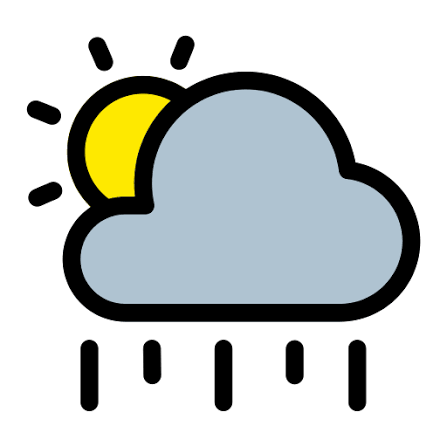
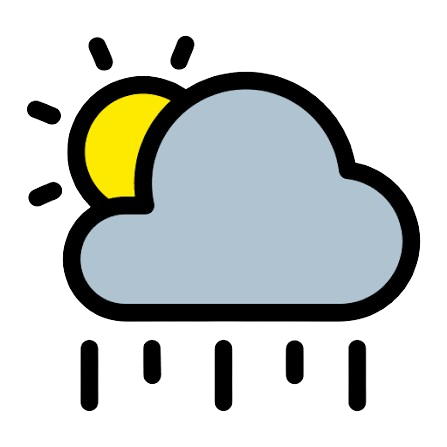
impliment api calls from openweather api

diff --git a/src/components/Weather.jsx b/src/components/Weather.jsx
@@ -1,6 +1,7 @@
-import React from 'react'
+import React, { useEffect, useState } from 'react'
 import './Weather.css'
 import search_icon from '../assets/search.png'
+import rain_icon from '../assets/rainy.png'
 import clear_icon from '../assets/sunny.png'
 import cloud_icon from '../assets/cloudy.png'
 import drizzle_icon from '../assets/drizzle.png'
@@ -10,6 +11,45 @@ import humidity_icon from '../assets/humidity.png'
 
 
 const Weather = () => {
+
+    const [weatherData, setWeatherData] = useState(false);
+
+    const allIcons = {
+        "01d": clear_icon,
+        "01n":clear_icon,
+        "02d":cloud_icon,
+        "02n":cloud_icon,
+        "03d":cloud_icon,
+        "04d":drizzle_icon,
+        "04n":drizzle_icon,
+        "09d":rain_icon,
+        "09n":rain_icon,
+        "10d":rain_icon,
+        "10n":rain_icon,
+    }
+
+    const search = async (city)=>{
+        try {
+           const url = `https://api.openweathermap.org/data/2.5/weather?q=${city}&units=metric&appid=${import.meta.env.VITE_APP_ID}`;
+
+            const response = await fetch(url);
+            const data = await response.json();
+            console.log(data);
+            const icon = allIcons[data.weather[0].icon] || clear_icon;          setWeatherData({
+                humidity: data.main.humidity,
+                windSpeed: data.wind.speed,
+                temperature: Math.floor(data.main.temp),
+                location: data.name,
+                icon: icon
+            })
+        } catch (error) {
+
+        }
+    }
+
+    useEffect(()=>{
+        search("New York");
+    },[])
   return (
     <div className='weather'>
         <div className='search-bar'>
@@ -17,20 +57,20 @@ const Weather = () => {
             <img src={search_icon} alt=''/>
         </div>
         <img src={clear_icon} className='weather-icon'/>
-        <p className='temperature'>20°C</p>
-        <p className='location'>London</p>
+        <p className='temperature'>{weatherData.temperature}°C</p>
+        <p className='location'>{weatherData.location}</p>
         <div className="weather-data">
     <div className="col">
         <img src={humidity_icon} alt="" />
         <div>
-            <p>91 %</p>
+            <p>{weatherData.humidity}%</p>
             <span>humidity</span>
         </div>
     </div>
     <div className="col">
         <img src={wind_icon} alt="" />
         <div>
-            <p>36 km/h</p>
+            <p>{weatherData.windSpeed}km/h</p>
             <span>wind speed</span>
         </div>
     </div>

diff --git a/src/components/Weather.css b/src/components/Weather.css
@@ -56,3 +56,11 @@
     gap: 12px;
     font-size: 22px;
 }
+.weather-data .col span{
+    display:block;
+    font-size: 16px;
+}
+.weather-data .col img{
+    width:26px;
+    margin-top: 10px;
+}
